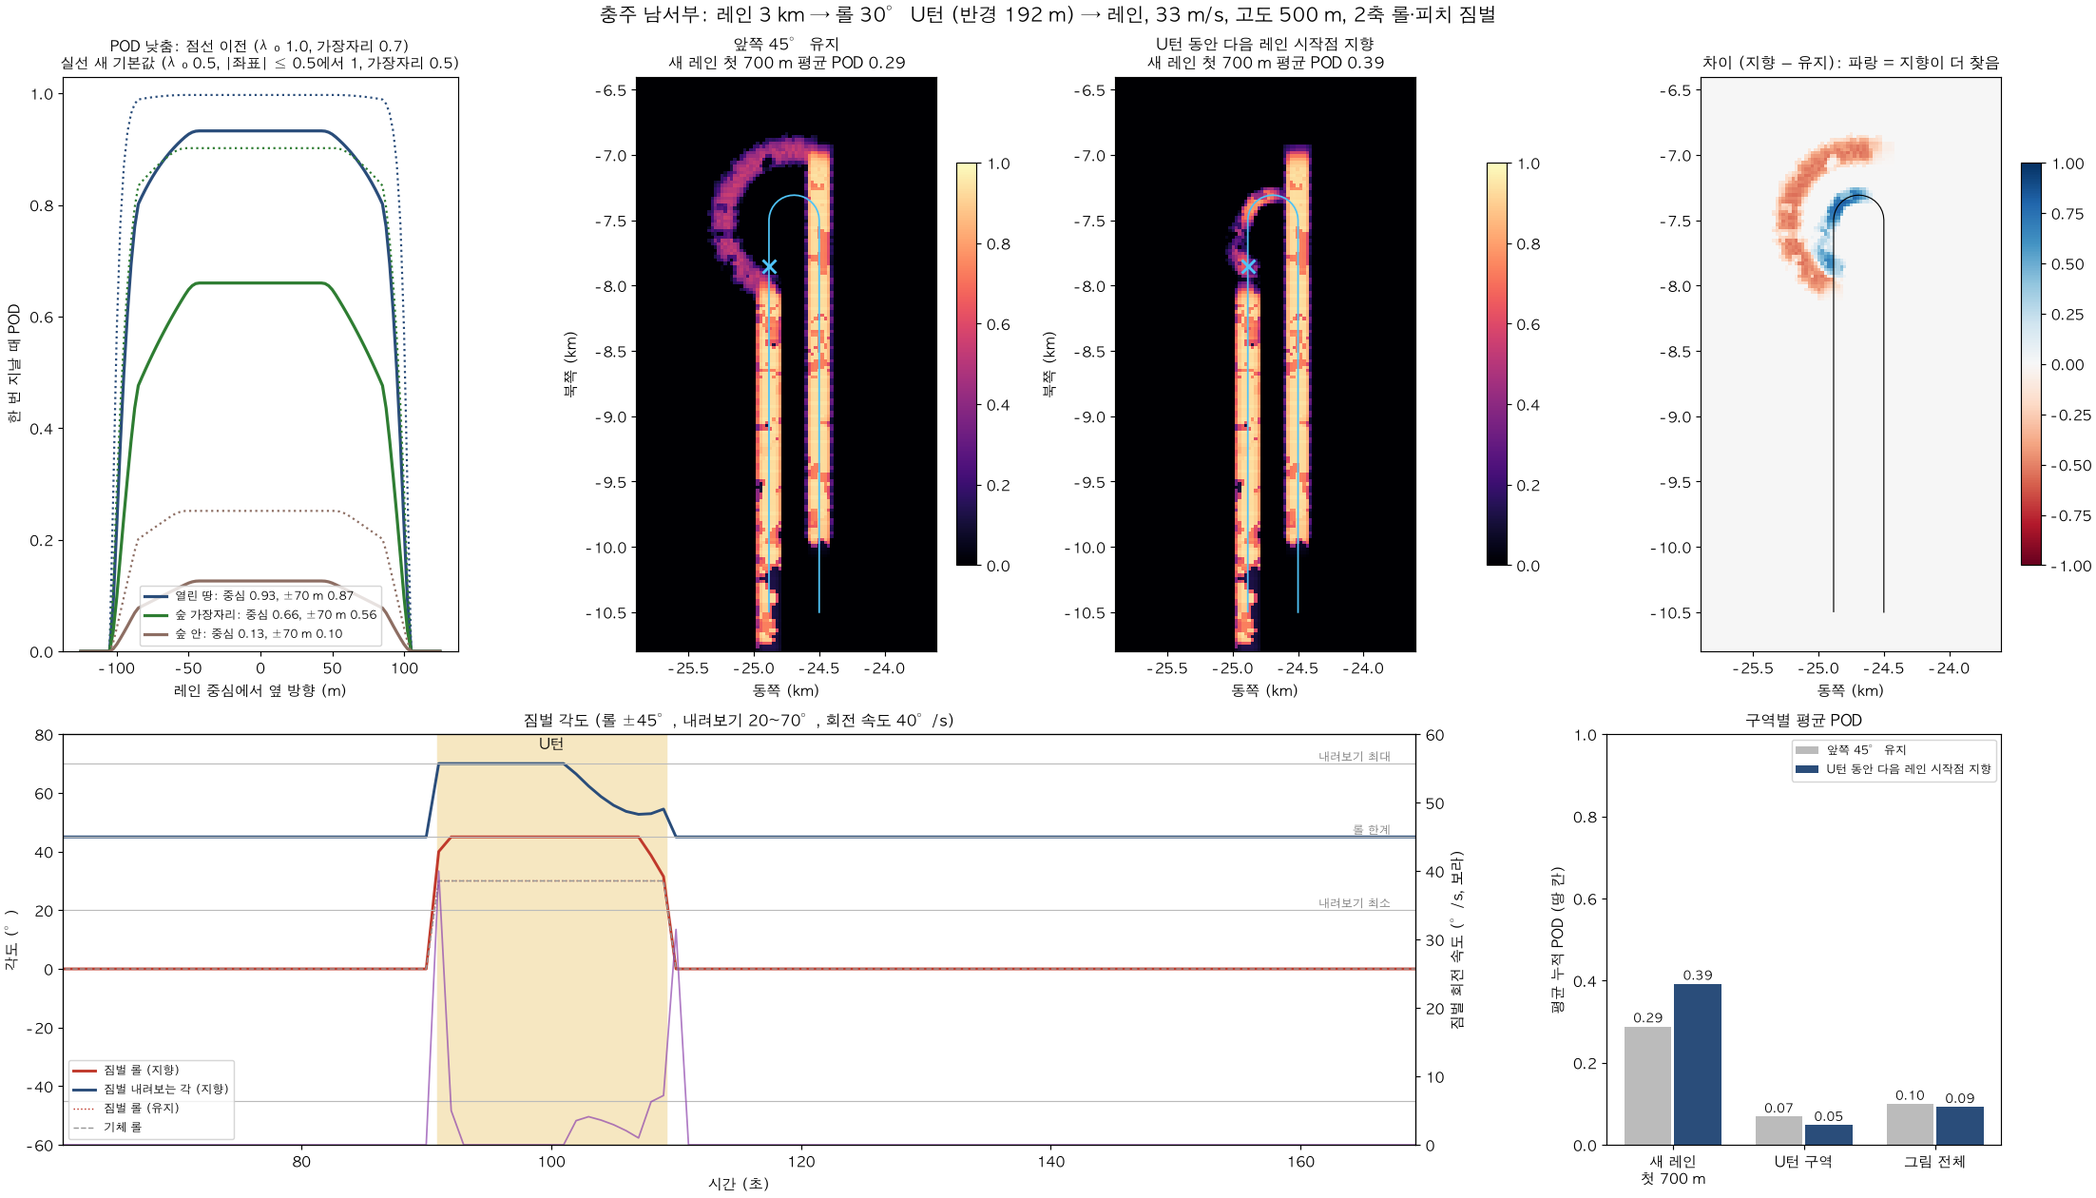
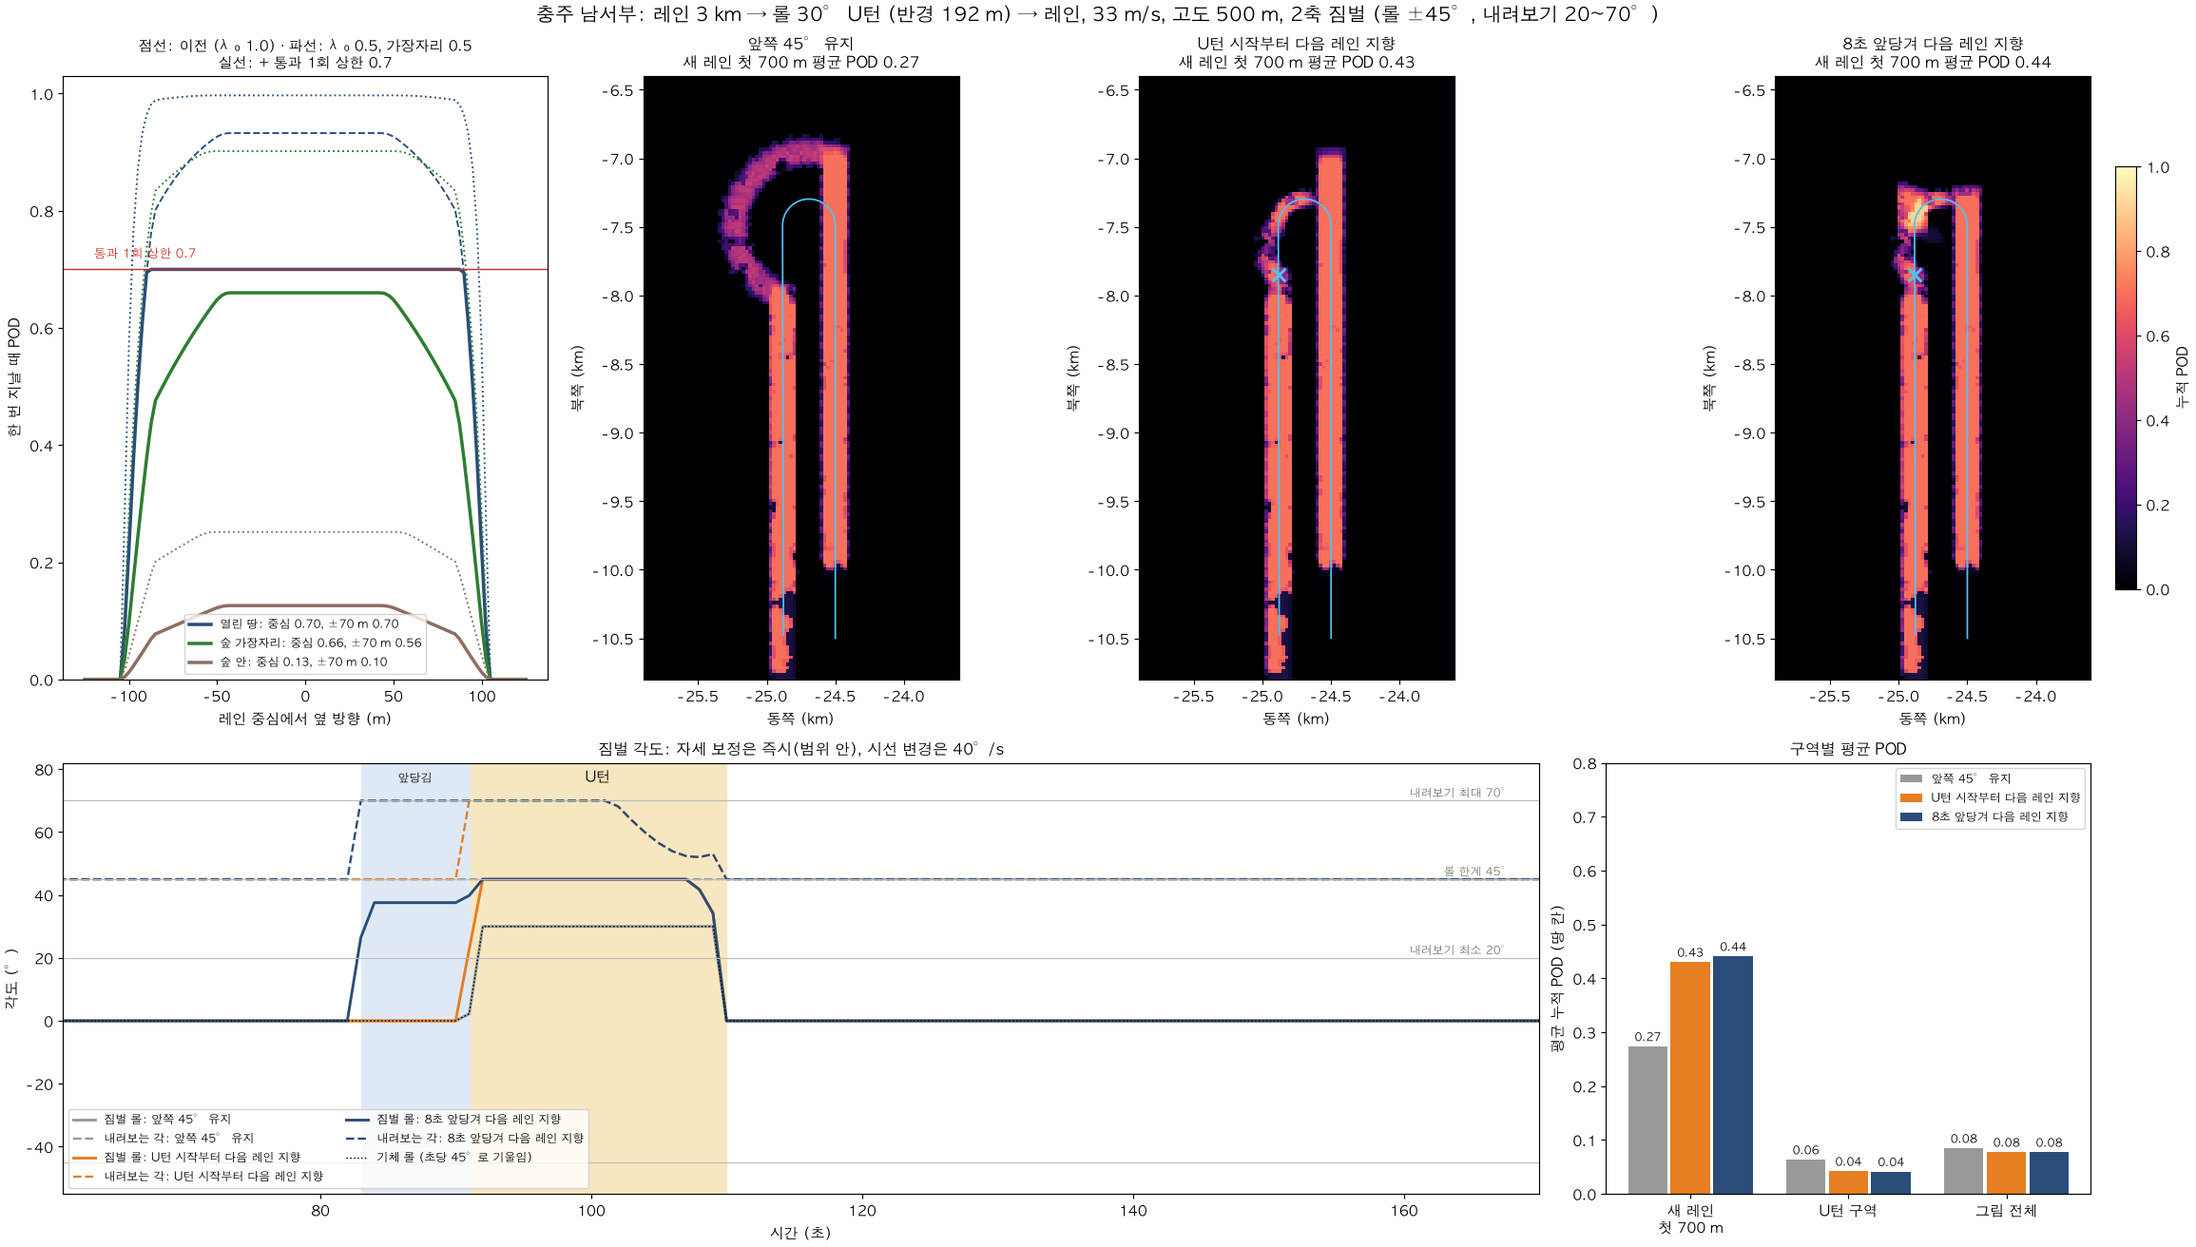
Detection: per-pass POD cap 0.7 (PassCap); gimbal takes out attitude at once and re-points at a limited slew; realistic roll-in and pointing lead in the check; handoff updated

diff --git a/rl_search/scripts/real_map/gimbal_check.py b/rl_search/scripts/real_map/gimbal_check.py
@@ -14,9 +14,43 @@ import matplotlib
 matplotlib.use("Agg")
 import matplotlib.pyplot as plt
 
-from rl_search.detection import DetectionConfig, Detector, Gimbal, GimbalConfig, camera_frame, image_coords, load_landcover
+from rl_search.detection import (DetectionConfig, Detector, Gimbal, GimbalConfig, PassCap, camera_frame, image_coords,
+                                 load_landcover)
 from rl_search.real_terrain import DATA
-from rl_search.scripts.real_map.detection_check import LANE, ROLL, V, X0, Y0, flight
+from rl_search.scripts.real_map.detection_check import LANE, ROLL, V, X0, Y0
+G = 9.81
+ROLL_RATE = 45.0          # deg/s, roll-in and roll-out (PX4 FW_R_RMAX 56 deg/s with a 0.4 s time constant)
+
+
+def flight(dt=0.05):
+    """1 s samples of lane north -> left U-turn at ROLL with a rate-limited roll -> lane south.
+
+    Returns rows (x, y, yaw, roll, turn rate deg/s, phase) with phase 0 lane 1, 1 turn, 2 lane 2, and the
+    nominal turn radius.
+    """
+    x, y, yaw, roll, t = X0, Y0, np.pi/2, 0.0, 0.0
+    phase, out, nxt = 0, [], 0.0
+    yaw_end = np.pi/2 + np.pi
+    while True:
+        if phase == 0 and y >= Y0 + LANE:
+            phase = 1
+        cmd = np.radians(ROLL) if phase == 1 else 0.0
+        if phase == 1:
+            w = G*np.tan(roll)/V
+            lead = (roll/np.radians(ROLL_RATE))*w/2          # heading still gained while rolling out
+            if yaw >= yaw_end - lead:
+                phase = 2
+        roll += np.clip(cmd - roll, -np.radians(ROLL_RATE)*dt, np.radians(ROLL_RATE)*dt)
+        w = G*np.tan(roll)/V
+        yaw += w*dt
+        x += V*np.cos(yaw)*dt; y += V*np.sin(yaw)*dt
+        t += dt
+        if t >= nxt - 1e-9:
+            out.append((x, y, yaw, roll, np.degrees(w), phase)); nxt += 1.0
+        if phase == 2 and y <= Y0 and abs(roll) < 1e-6:
+            break
+    R = V**2/(G*np.tan(np.radians(ROLL)))
+    return np.array(out), R
 from rl_search.terrain import load_terrain
 
 plt.rcParams["font.family"] = ["AppleGothic", "sans-serif"]
@@ -37,25 +71,28 @@ def lateral(cfg, A, dt=0.2):
     return xs, (1 - np.exp(-expo)).reshape(X.shape).mean(0)
 
 
-def run(det, path, R, mode, gcfg):
+def run(det, path, R, mode, gcfg, lead_s=0.0):
     """Cumulative ground POD on the detection_check window for one gimbal mode; also the gimbal history."""
     terr = det.terr
     a = terr.axis
     win = (X0 - 1400, X0 + 900, Y0 - 300, Y0 + LANE + 1100)
     ci = np.flatnonzero((a >= win[0]) & (a <= win[1])); ri = np.flatnonzero((a >= win[2]) & (a <= win[3]))
     GX, GY = np.meshgrid(a[ci], a[ri]); px, py = GX.ravel(), GY.ravel()
-    gim = Gimbal(1, det.cfg, gcfg)
+    gim = Gimbal(1, det.cfg, gcfg, yaw0=path[0, 2])
+    cap = PassCap(len(px), det.cfg)
     target = (X0 - 2*R, Y0 + LANE - 350)                    # first part of the return lane (the blind gap)
-    t_turn0, t_turn1 = LANE/V, LANE/V + np.pi*R/V
-    expo = np.zeros(len(px)); hist = []
-    for k, (x, y, yaw, roll, om) in enumerate(path):
+    turn = np.flatnonzero(path[:, 5] == 1)
+    t_turn0, t_turn1 = turn[0], turn[-1] + 1
+    miss = np.ones(len(px)); hist = []
+    for k, (x, y, yaw, roll, om, ph) in enumerate(path):
         t = float(k)
-        los = gim.los_point(x, y, *target) if (mode == "prelook" and t_turn0 <= t < t_turn1) else gim.los_forward(yaw)
-        frame, slew = gim.step(yaw, roll, los, det.cfg.dt_s)
-        p = det.slice_pod(px, py, x, y, yaw, roll, om + slew[0], frame=frame)
-        expo += -np.log1p(-np.minimum(p, 1 - 1e-12))
-        hist.append((t, np.degrees(gim.gam[0]), np.degrees(gim.th[0]), slew[0], np.degrees(roll)))
-    return (1 - np.exp(-expo)).reshape(GX.shape), GX, GY, np.array(hist), target, (a[ci[0]], a[ci[-1]], a[ri[0]], a[ri[-1]])
+        point = mode == "prelook" and t_turn0 - lead_s <= t < t_turn1
+        los = gim.los_point(x, y, *target) if point else gim.los_forward(yaw)
+        frame, los_rate = gim.step(yaw, roll, los, det.cfg.dt_s)
+        p = det.slice_pod(px, py, x, y, yaw, roll, max(abs(om), los_rate[0]), frame=frame)
+        miss *= 1 - cap.apply(p, det.last_inside)
+        hist.append((t, np.degrees(gim.gam[0]), np.degrees(gim.th[0]), los_rate[0], np.degrees(roll)))
+    return (1 - miss).reshape(GX.shape), GX, GY, np.array(hist), target, (a[ci[0]], a[ci[-1]], a[ri[0]], a[ri[-1]])
 
 
 def main():
@@ -64,75 +101,78 @@ def main():
     path, R = flight()
     det = Detector(terr, lc, NEW)
     gcfg = GimbalConfig()
-    res = {m: run(det, path, R, m, gcfg) for m in ("forward", "prelook")}
+    modes = {"forward": ("앞쪽 45° 유지", "forward", 0.0), "prelook": ("U턴 시작부터 다음 레인 지향", "prelook", 0.0),
+             "lead": ("8초 앞당겨 다음 레인 지향", "prelook", 8.0)}
+    res = {k: run(det, path, R, m, gcfg, lead) for k, (_, m, lead) in modes.items()}
+    turn_t = np.flatnonzero(path[:, 5] == 1)
+    t0, t1 = turn_t[0], turn_t[-1] + 1
 
-    fig = plt.figure(figsize=(21, 12), layout="constrained")
+    fig = plt.figure(figsize=(22, 12.5), layout="constrained")
     gs = fig.add_gridspec(2, 4, height_ratios=[1.4, 1])
     ax = fig.add_subplot(gs[0, 0])
     for A, c, lab in ((1.0, "#2a4d7a", "열린 땅"), (0.4, "#2e7d32", "숲 가장자리"), (0.05, "#8d6e63", "숲 안")):
         xs, po = lateral(OLD, A); _, pn = lateral(NEW, A)
-        ax.plot(xs, po, color=c, ls=":", lw=1.5)
-        ax.plot(xs, pn, color=c, lw=2.2, label=f"{lab}: 중심 {pn[len(xs)//2]:.2f}, ±70 m {pn[np.argmin(abs(xs-70))]:.2f}")
+        pc = np.minimum(pn, NEW.pass_pod_max)
+        ax.plot(xs, po, color=c, ls=":", lw=1.3)
+        ax.plot(xs, pn, color=c, ls="--", lw=1.3)
+        ax.plot(xs, pc, color=c, lw=2.4, label=f"{lab}: 중심 {pc[len(xs)//2]:.2f}, ±70 m {pc[np.argmin(abs(xs-70))]:.2f}")
+    ax.axhline(NEW.pass_pod_max, color="#c0392b", lw=1); ax.text(-120, NEW.pass_pod_max + .02, "통과 1회 상한 0.7", color="#c0392b", fontsize=9)
     ax.set_ylim(0, 1.03); ax.set_xlabel("레인 중심에서 옆 방향 (m)"); ax.set_ylabel("한 번 지날 때 POD")
-    ax.set_title(f"POD 낮춤: 점선 이전 (λ₀ {OLD.lam0}, 가장자리 {OLD.edge_value})\n실선 새 기본값 (λ₀ {NEW.lam0}, |좌표| ≤ {NEW.edge_plateau}에서 1, 가장자리 {NEW.edge_value})", fontsize=10)
+    ax.set_title(f"점선: 이전 (λ₀ 1.0) · 파선: λ₀ {NEW.lam0}, 가장자리 {NEW.edge_value}\n실선: + 통과 1회 상한 {NEW.pass_pod_max}", fontsize=10)
     ax.legend(fontsize=8, loc="lower center")
-    names = {"forward": "앞쪽 45° 유지", "prelook": "U턴 동안 다음 레인 시작점 지향"}
-    gap = None
-    for j, m in enumerate(("forward", "prelook")):
-        pod, GX, GY, hist, target, ext = res[m]
+    gap = (np.abs(res["forward"][1] - (X0 - 2*R)) <= 80) & (res["forward"][2] > Y0 + LANE - 700) & (res["forward"][2] < Y0 + LANE)
+    for j, (k, (name, _, _)) in enumerate(modes.items()):
+        pod, GX, GY, hist, target, ext = res[k]
         ax = fig.add_subplot(gs[0, 1 + j])
         im = ax.imshow(pod, origin="lower", extent=np.array(ext)/1000, cmap="magma", vmin=0, vmax=1, interpolation="nearest")
         ax.plot(path[:, 0]/1000, path[:, 1]/1000, color="#4fc3f7", lw=1.2)
-        ax.plot(target[0]/1000, target[1]/1000, "x", color="#4fc3f7", ms=10, mew=2)
-        g = (np.abs(GX - (X0 - 2*R)) <= 80) & (GY > Y0 + LANE - 700) & (GY < Y0 + LANE)
-        gap = g
-        ax.set_title(f"{names[m]}\n새 레인 첫 700 m 평균 POD {pod[g].mean():.2f}", fontsize=11)
+        if k != "forward":
+            ax.plot(target[0]/1000, target[1]/1000, "x", color="#4fc3f7", ms=10, mew=2)
+        ax.set_title(f"{name}\n새 레인 첫 700 m 평균 POD {pod[gap].mean():.2f}", fontsize=11)
         ax.set_xlabel("동쪽 (km)"); ax.set_ylabel("북쪽 (km)")
-        fig.colorbar(im, ax=ax, shrink=.7)
-    ax = fig.add_subplot(gs[0, 3])
-    pf, pp = res["forward"][0], res["prelook"][0]
-    im = ax.imshow(pp - pf, origin="lower", extent=np.array(res["forward"][5])/1000, cmap="RdBu", vmin=-1, vmax=1, interpolation="nearest")
-    ax.plot(path[:, 0]/1000, path[:, 1]/1000, color="black", lw=.8)
-    ax.set_title("차이 (지향 − 유지): 파랑 = 지향이 더 찾음", fontsize=11); fig.colorbar(im, ax=ax, shrink=.7)
-    ax.set_xlabel("동쪽 (km)")
+        if j == 2:
+            fig.colorbar(im, ax=ax, shrink=.7, label="누적 POD")
     ax = fig.add_subplot(gs[1, :3])
-    h = res["prelook"][3]; hf = res["forward"][3]
-    ax.plot(h[:, 0], h[:, 1], color="#c0392b", lw=2, label="짐벌 롤 (지향)")
-    ax.plot(h[:, 0], h[:, 2], color="#2a4d7a", lw=2, label="짐벌 내려보는 각 (지향)")
-    ax.plot(hf[:, 0], hf[:, 1], color="#c0392b", lw=1, ls=":", label="짐벌 롤 (유지)")
-    ax.plot(h[:, 0], h[:, 4], color="#999", lw=1, ls="--", label="기체 롤")
-    for v, lab in ((gcfg.roll_lim_deg, "롤 한계"), (-gcfg.roll_lim_deg, ""), (gcfg.dep_min_deg, "내려보기 최소"), (gcfg.dep_max_deg, "내려보기 최대")):
-        ax.axhline(v, color="#bbb", lw=.8); ax.text(LANE/V + np.pi*R/V + 58, v + 1, lab, ha="right", fontsize=8, color="#777")
-    t0, t1 = LANE/V, LANE/V + np.pi*R/V
-    ax.axvspan(t0, t1, color="#f6e7c1", zorder=0); ax.text((t0 + t1)/2, 75, "U턴", ha="center")
-    ax2 = ax.twinx(); ax2.plot(h[:, 0], h[:, 3], color="#8e44ad", lw=1.2, alpha=.7); ax2.set_ylabel("짐벌 회전 속도 (°/s, 보라)")
-    ax2.set_ylim(0, 60)
-    ax.set_xlim(t0 - 30, t1 + 60); ax.set_ylim(-60, 80); ax.set_xlabel("시간 (초)"); ax.set_ylabel("각도 (°)")
-    ax.set_title(f"짐벌 각도 (롤 ±{gcfg.roll_lim_deg:.0f}°, 내려보기 {gcfg.dep_min_deg:.0f}~{gcfg.dep_max_deg:.0f}°, 회전 속도 {gcfg.slew_dps:.0f}°/s)", fontsize=11)
-    ax.legend(fontsize=8, loc="lower left")
+    cols = {"forward": "#999999", "prelook": "#e67e22", "lead": "#2a4d7a"}
+    for k, (name, _, _) in modes.items():
+        h = res[k][3]
+        ax.plot(h[:, 0], h[:, 1], color=cols[k], lw=2, label=f"짐벌 롤: {name}")
+        ax.plot(h[:, 0], h[:, 2], color=cols[k], lw=1.6, ls="--", label=f"내려보는 각: {name}")
+    h = res["forward"][3]
+    ax.plot(h[:, 0], h[:, 4], color="black", lw=1, ls=":", label="기체 롤 (초당 45°로 기울임)")
+    for v, lab in ((gcfg.roll_lim_deg, "롤 한계 45°"), (-gcfg.roll_lim_deg, ""), (gcfg.dep_min_deg, "내려보기 최소 20°"), (gcfg.dep_max_deg, "내려보기 최대 70°")):
+        ax.axhline(v, color="#bbb", lw=.8)
+        if lab:
+            ax.text(t1 + 58, v + 1.2, lab, ha="right", fontsize=8, color="#777")
+    ax.axvspan(t0, t1, color="#f6e7c1", zorder=0); ax.text((t0 + t1)/2, 76, "U턴", ha="center")
+    ax.axvspan(t0 - 8, t0, color="#dfe9f5", zorder=0); ax.text(t0 - 4, 76, "앞당김", ha="center", fontsize=8)
+    ax.set_xlim(t0 - 30, t1 + 60); ax.set_ylim(-55, 82); ax.set_xlabel("시간 (초)"); ax.set_ylabel("각도 (°)")
+    ax.set_title(f"짐벌 각도: 자세 보정은 즉시(범위 안), 시선 변경은 {gcfg.slew_dps:.0f}°/s", fontsize=11)
+    ax.legend(fontsize=8, ncol=2, loc="lower left")
     ax = fig.add_subplot(gs[1, 3])
-    labels = ["새 레인\n첫 700 m", "U턴 구역", "그림 전체"]
     turn = res["forward"][2] > Y0 + LANE - 100
-    vals = {m: [res[m][0][gap].mean(), res[m][0][turn].mean(), res[m][0].mean()] for m in ("forward", "prelook")}
+    labels = ["새 레인\n첫 700 m", "U턴 구역", "그림 전체"]
     xs = np.arange(3)
-    ax.bar(xs - .19, vals["forward"], .36, color="#bbbbbb", label=names["forward"])
-    ax.bar(xs + .19, vals["prelook"], .36, color="#2a4d7a", label=names["prelook"])
-    for i in range(3):
-        ax.text(xs[i] - .19, vals["forward"][i] + .01, f"{vals['forward'][i]:.2f}", ha="center", fontsize=9)
-        ax.text(xs[i] + .19, vals["prelook"][i] + .01, f"{vals['prelook'][i]:.2f}", ha="center", fontsize=9)
-    ax.set_xticks(xs, labels); ax.set_ylabel("평균 누적 POD (땅 칸)"); ax.legend(fontsize=8); ax.set_ylim(0, 1)
+    for j, (k, (name, _, _)) in enumerate(modes.items()):
+        v = [res[k][0][gap].mean(), res[k][0][turn].mean(), res[k][0].mean()]
+        ax.bar(xs + (j - 1)*.27, v, .25, color=cols[k], label=name)
+        for xx, vv in zip(xs + (j - 1)*.27, v):
+            ax.text(xx, vv + .01, f"{vv:.2f}", ha="center", fontsize=8)
+    ax.set_xticks(xs, labels); ax.set_ylim(0, .8); ax.set_ylabel("평균 누적 POD (땅 칸)"); ax.legend(fontsize=8)
     ax.set_title("구역별 평균 POD", fontsize=11)
-    fig.suptitle(f"충주 남서부: 레인 3 km → 롤 {ROLL:.0f}° U턴 (반경 {R:.0f} m) → 레인, 33 m/s, 고도 500 m, 2축 롤·피치 짐벌", fontsize=14)
+    fig.suptitle(f"충주 남서부: 레인 3 km → 롤 {ROLL:.0f}° U턴 (반경 {R:.0f} m) → 레인, 33 m/s, 고도 500 m, 2축 짐벌 "
+                 f"(롤 ±{gcfg.roll_lim_deg:.0f}°, 내려보기 {gcfg.dep_min_deg:.0f}~{gcfg.dep_max_deg:.0f}°)", fontsize=14)
     fig.savefig(DATA/"chungju"/"gimbal_check.png", dpi=105)
     plt.close(fig)
     for A in (1.0, 0.4, 0.05):
         xs, po = lateral(OLD, A); _, pn = lateral(NEW, A)
-        print(f"A {A}: centre {po[len(xs)//2]:.3f}->{pn[len(xs)//2]:.3f}, 70 m {po[np.argmin(abs(xs-70))]:.3f}->{pn[np.argmin(abs(xs-70))]:.3f}, "
-              f"sweep width {np.trapezoid(po, xs):.0f}->{np.trapezoid(pn, xs):.0f} m")
-    for m in ("forward", "prelook"):
-        h = res[m][3]
-        print(m, "gap/turn/all", [round(v, 3) for v in vals[m]], "max gimbal roll", round(np.abs(h[:, 1]).max(), 1),
-              "dep range", round(h[:, 2].min(), 1), round(h[:, 2].max(), 1), "max slew", round(h[:, 3].max(), 1))
+        print(f"A {A}: centre {po[len(xs)//2]:.3f}->{pn[len(xs)//2]:.3f} (capped {min(pn[len(xs)//2], .7):.3f}), "
+              f"sweep width capped {np.trapezoid(np.minimum(pn, .7), xs):.0f} m")
+    for k in modes:
+        h = res[k][3]
+        print(k, "gap/turn/all", [round(float(res[k][0][m].mean()), 3) for m in (gap, turn, np.ones_like(gap))],
+              "gimbal roll max", round(np.abs(h[:, 1]).max(), 1), "dep", round(h[:, 2].min(), 1), round(h[:, 2].max(), 1),
+              "los rate max", round(h[:, 3].max(), 1))
 
 
 if __name__ == "__main__":

diff --git a/docs/real_map_todo.md b/docs/real_map_todo.md
@@ -3,7 +3,44 @@
 SAROPS 방식 탐색([SAROPS 방식 적용 검토 TODO](sarops_approach_todo.md))을 실제 지형 위로 옮기는 작업을 관리한다.
 날짜는 한국 시간.
 
-## 2026-11-06 · POD 낮춤과 현실적인 2축 짐벌 (최신 인계)
+## 2026-11-06 · 통과 1회 상한 0.7, 짐벌 보정과 지향 분리 (최신 인계)
+
+**현재 위치:** 사용자 요청 두 가지를 반영했다(`gimbal_check.png`). 다음은 2단계(충주 시나리오)이며 사용자 확인을 기다린다.
+
+**통과 1회 POD 상한 0.7** (사용자: "기존처럼 SAROPS나 RL에서 한 번에 얻을 수 있는 최대 POD는 0.7")
+- 이전 SAROPS 센서 정의(S.11, "POD = 통과 1회당 확률 0.7")와 같은 뜻이다.
+- `DetectionConfig.pass_pod_max = 0.7`, `detection.PassCap`으로 구현했다.
+  - 통과는 particle이 화면 안에 있는 연속 구간이다. 모든 화면에서 2초(`pass_gap_s`) 넘게 벗어나면 끝난다.
+  - 한 통과 안에서 −ln(1 − 0.7)을 넘는 위험률은 버린다.
+- 한 번 지날 때 POD는 열린 땅 0.70(상한), 숲 가장자리 0.66, 숲 안 0.13이다.
+  - 상한 적용 실효 탐색 폭은 열린 땅 137 m, 숲 가장자리 115 m, 숲 안 21 m다.
+- `Detector.slice_pod`는 상한 없는 값을 낸다. 상한은 호출하는 쪽에서 `PassCap.apply(p, detector.last_inside)`로 건다.
+
+**짐벌: 자세 보정과 시선 변경을 나눔** (사용자: "회전이 있으면 미리 짐벌도 제어돼야 할 것 같다, 현실성 확인")
+- 이전 시험은 두 가지가 비현실적이었다.
+  - 기체 롤이 순간적으로 0°에서 30°로 바뀌었다.
+  - 짐벌의 자세 보정과 시선 변경을 같은 40°/s 한계로 묶었다.
+- 실제 안정화 짐벌은 자체 IMU로 기체 자세를 빠르게 상쇄한다. 비행 프로그램은 계획된 회전을 미리 알므로 짐벌에 feedforward를 줄 수도 있다.
+- 바꾼 모델:
+  - 짐벌 상태는 땅 기준 시선이다.
+  - 명령 시선으로는 40°/s로만 돌아간다.
+  - 기체 자세는 범위(롤 ±45°, 내려보기 20~70°) 안에서 즉시 상쇄한다.
+  - 흔들림 배율은 기체 선회율과 땅 기준 시선 회전 속도 중 큰 값으로 계산한다.
+- 시험 비행에 롤 진입·이탈 속도 초당 45°를 넣었다(PX4 FW_R_RMAX 56°/s 근처).
+- 결과(롤 30° U턴, 통과 상한 적용):
+  - 앞쪽 45° 유지: 짐벌 롤이 기체 롤을 그대로 따라가 늦어지지 않는다. U턴 중 시선 회전은 최대 6.9°/s다.
+  - 새 레인 첫 700 m의 POD는 아래와 같다.
+    - 유지: 0.27
+    - U턴 시작부터 다음 레인 지향: 0.43
+    - 8초 앞당겨 지향: 0.44
+  - U턴 구역은 0.06에서 0.04로 줄어, 그림 전체 평균은 0.08로 같다.
+  - 지향하면 짐벌이 롤 45°와 내려보기 70° 한계에 붙는다. 다음 레인 시작점이 기체 뒤쪽이라 2축으로는 닿지 않는다.
+- **결론:**
+  - 회전 중 자세 보정은 현실적으로 문제없다(빠른 안정화 + feedforward).
+  - 지향(ROI)도 비행 프로그램으로 가능하다. 다만 2축 범위에서는 빈 곳을 조금 메우는 대신 회전 구역을 덜 본다.
+  - 탐색 계획에서는 레인 연장(발자국 앞섬 약 400~600 m)으로 메우는 것을 기본으로 한다. 지향은 옵션으로 두고 POS로 비교한다.
+
+## 2026-11-06 · POD 낮춤과 현실적인 2축 짐벌
 
 **현재 위치:** 사용자 요청으로 POD 기본값을 낮추고, 롤·피치 짐벌을 범위와 회전 속도가 있는 장치로 넣었다(`gimbal_check.png`, `scripts/real_map/gimbal_check.py`).
 사용자는 이걸 충주 시나리오(2단계)에 적용하길 원한다. 2단계는 아직이다.
